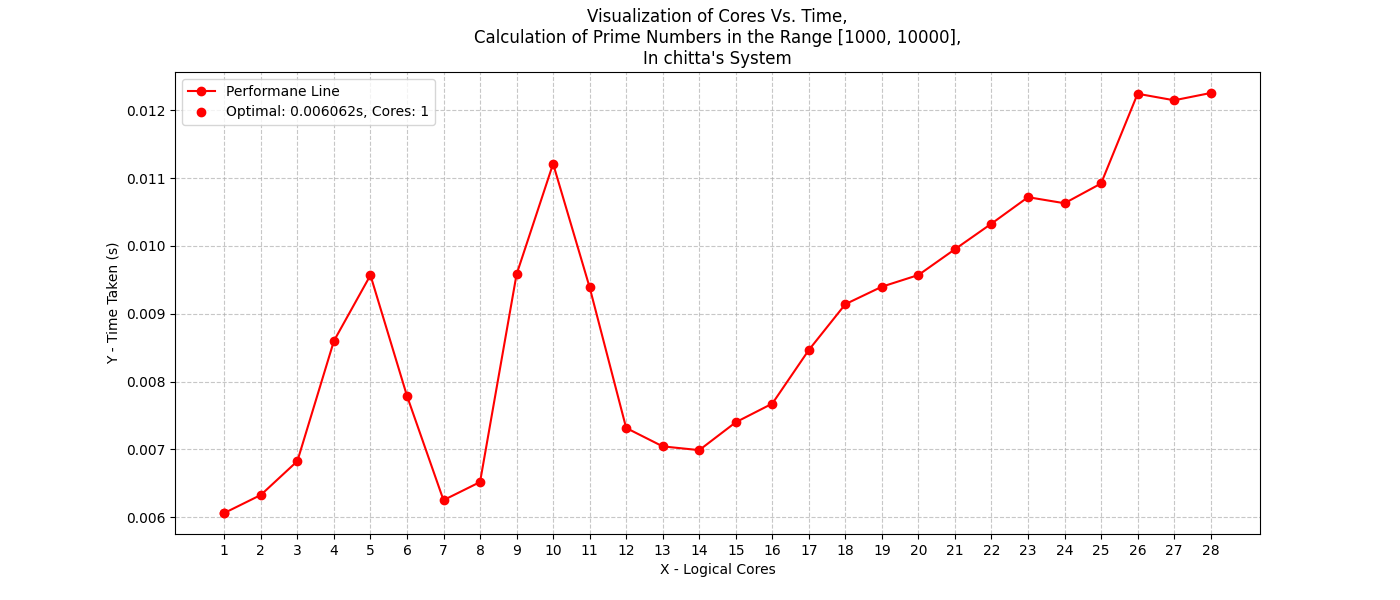
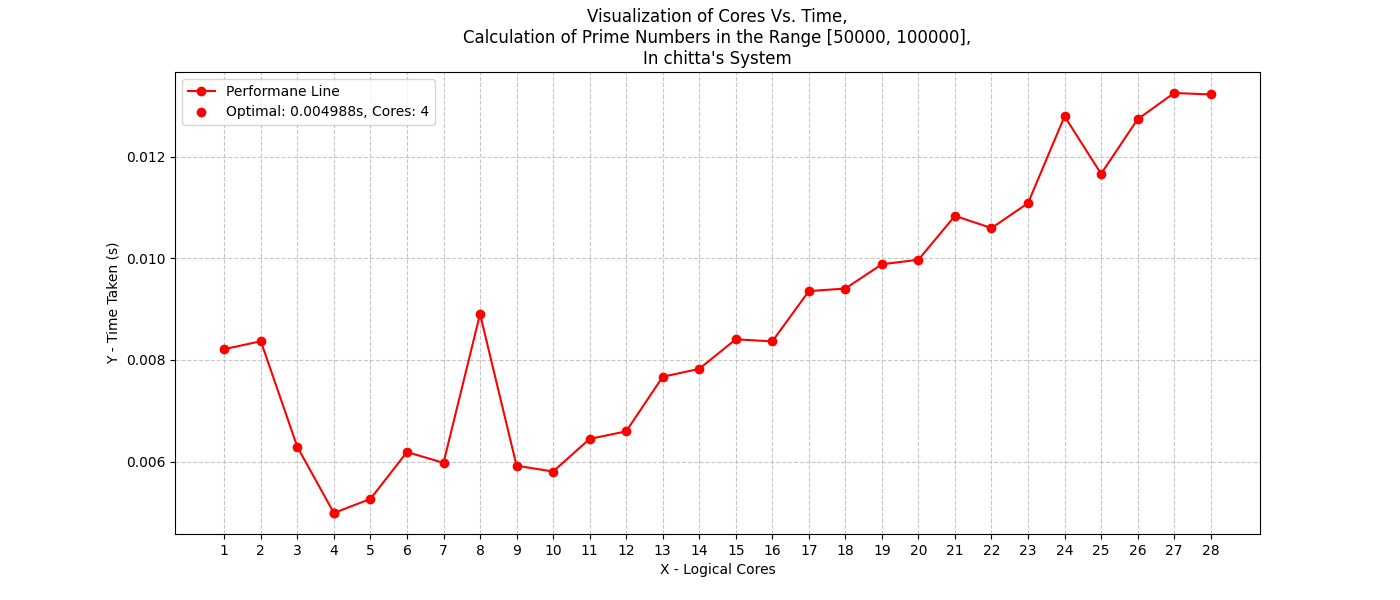
Update: Added log file and some updates

diff --git a/main.py b/main.py
@@ -1,12 +1,10 @@
-from utils import getTime, visualisation, getCPU
+from utils import getTime, visualisation, getCPU, getUserName, logUserData
 
 def main():
     lower_bound = int(input("Please Enter Lower Bound of the Prime Numbers: "))
     upper_bound = int(input("Please Enter Upper Bound of the Prime Numbers: "))
-    user_name = input("Pleaser Enter Your Name: ")
 
-    logical_cores = getCPU.get_logical_cores()
-    print(f"Number of Logical Processors Present in the System: [{logical_cores}]")
+    logical_cores: int = getCPU.get_logical_cores()
 
     x: list[int] = []
     y: list[float] = []
@@ -15,11 +13,10 @@ def main():
         time_taken:float = getTime.get_runtime(upper_bound, lower_bound, i)
         x.append(i)
         y.append(time_taken)
-        print(f"Cores: [{i}], Time Taken: [{time_taken:.6f}s]")
 
     min_index = y.index(min(y))
-    print(f"Minimum Time taken using [{x[min_index]}] Cores, Time: [{y[min_index]}s], in {user_name}'s System")
-    visualisation.plot_graph(x, y, lower_bound, upper_bound, min_index, user_name)
+    logUserData.log_user_data(x, y, getUserName.get_user_name(), logical_cores, min_index, upper_bound, lower_bound)
+    visualisation.plot_graph(x, y, lower_bound, upper_bound, min_index, getUserName.get_user_name())
 
 if __name__=="__main__":
     main()

diff --git a/utils/logUserData.py b/utils/logUserData.py
@@ -1,0 +1,13 @@
+import datetime
+import os
+
+def log_user_data(a: list[int], b: list[float], user_name: str, total_cores: int, min_idx: int, upper_bound: int, lower_bound: int):
+    now = datetime.datetime.now()
+    timestamp = now.strftime("%H:%M:%S - %d:%m:%Y")
+    
+    with open("./outputs/prime.txt", "a") as f:
+        f.write(f"Logged Time: [{timestamp}], [{user_name}] has [{total_cores}] logical cores, Given Range: [{lower_bound},{upper_bound}]\n")
+        
+        for x, y in zip(a, b):
+            f.write(f"Using [{x}] cores, Time taken: [{y:.6f}s]\n")
+        f.write(f"Optimal: Using [{a[min_idx]}] cores, Minimum Time is Found: [{b[min_idx]:.6f}s]\n\n")

diff --git a/utils/getUserName.py b/utils/getUserName.py
@@ -1,0 +1,11 @@
+import ctypes
+import os
+
+def get_user_name()->str:
+    lib_path = os.path.abspath("./utils/libusername.so")
+    lib = ctypes.CDLL(lib_path)
+    lib.getUserName.restype = ctypes.c_char_p
+
+    raw_result = lib.getUserName()
+    user_name:str = raw_result.decode('utf-8')
+    return user_name

diff --git a/utils/getUserName.c b/utils/getUserName.c
@@ -1,0 +1,6 @@
+#include <unistd.h>
+
+char * getUserName() {
+    char *userName = getlogin();
+    return userName;
+}

diff --git a/README.md b/README.md
@@ -3,6 +3,14 @@
 ## Overview
 This project analyzes the performance of parallel prime number calculation across different numbers of logical CPU cores. It measures execution time for computing prime numbers in a given range using multi-process parallelization and visualizes the results.
 
+## Problem Statement
+```
+Write a code that accepts integer values of rl & rh and computes the list of prime numbers in that given range and stores them in a file prime.txt. You should write a code that minimizes the overall execution time by creating multiple child processes (say n) which exploit ultiple logical cores of your machine. For a given range say 1000 – 10000 provide the plot of n vs physical execution time.
+
+Show results/plots: 
+(a) for varying ranges say 1000- 10000; 50000-100000, etc. 
+(b) for each range run in atleast 3 machines with different configurations (number of logical processors).
+```
 ## Features
 - **Parallel Processing**: Utilizes multiple child processes to calculate primes in parallel ranges
 - **Performance Analysis**: Measures and compares execution times across 1 to N logical cores
@@ -34,10 +42,17 @@ This project analyzes the performance of parallel prime number calculation acros
 
 ## Installation
 1. Clone or download the project
+   ```bash
+   git clone https://github.com/iamchitta07/OS-PROJECT-PARALLEL-PRIME-NUMBER-CALCULATION.git
+   ```
 2. Ensure Python 3.11+ is installed
+3. Ensure UV is installed
+   ```bash
+   curl -LsSf https://astral.sh/uv/install.sh | sh
+   ```
 3. Install dependencies:
    ```bash
-   pip install -r requirements.txt
+   uv add -r requirements.txt
    ```
 
 ## Building C Extensions
@@ -45,26 +60,33 @@ Compile the C libraries before running the project:
 ```bash
 gcc -shared -fPIC -o utils/libtime.so utils/getTime.c
 gcc -shared -fPIC -o utils/libcpu.so utils/getCPU.c
+gcc -shared -fPIC -o utils/libusername.so utils/getUserName.c
 ```
 
 ## Usage
 Run the main program and provide an upper bound for prime number calculation:
 ```bash
-python main.py
+uv run main.py
 ```
 
 ### Example
 ```
-Please Enter Upper Bound of the Prime Numbers: 100000
-Number of Logical Processors Present in the System: [8]
-Cores: [1], Time Taken: [0.012345s]
-Cores: [2], Time Taken: [0.008123s]
+Logged Time: [20:50:44 - 07:02:2026], [chitta] has [28] logical cores, Given Range: [100,1000000]
+Using [1] cores, Time taken: [0.069788s]
+Using [2] cores, Time taken: [0.030623s]
+Using [3] cores, Time taken: [0.024932s]
+Using [4] cores, Time taken: [0.022116s]
+Using [5] cores, Time taken: [0.016377s]
+Using [6] cores, Time taken: [0.018643s]
+Using [7] cores, Time taken: [0.016374s]
+Using [8] cores, Time taken: [0.014263s]
+Using [9] cores, Time taken: [0.013787s]
 ...
-Cores: [8], Time Taken: [0.005678s]
-Minimum Time taken using [8] Cores, Time: [0.005678s]
+Using [28] cores, Time taken: [0.018468s]
+Optimal: Using [12] cores, Minimum Time is Found: [0.012020s]
 ```
 
-The program will generate a performance graph at `outputs/line_chart.png`.
+The program will generate a performance graph at `outputs/username_line_chart.png`. and `prime.txt` Log File.
 
 ## How It Works
 1. **CPU Detection**: Queries the system to determine the number of logical CPU cores
@@ -73,5 +95,3 @@ The program will generate a performance graph at `outputs/line_chart.png`.
 4. **Timing**: Measures wall-clock time using `CLOCK_MONOTONIC`
 5. **Visualization**: Plots results with the optimal configuration highlighted
 
-## Author
-**Chittajit Nath, NIT Durgapur**
